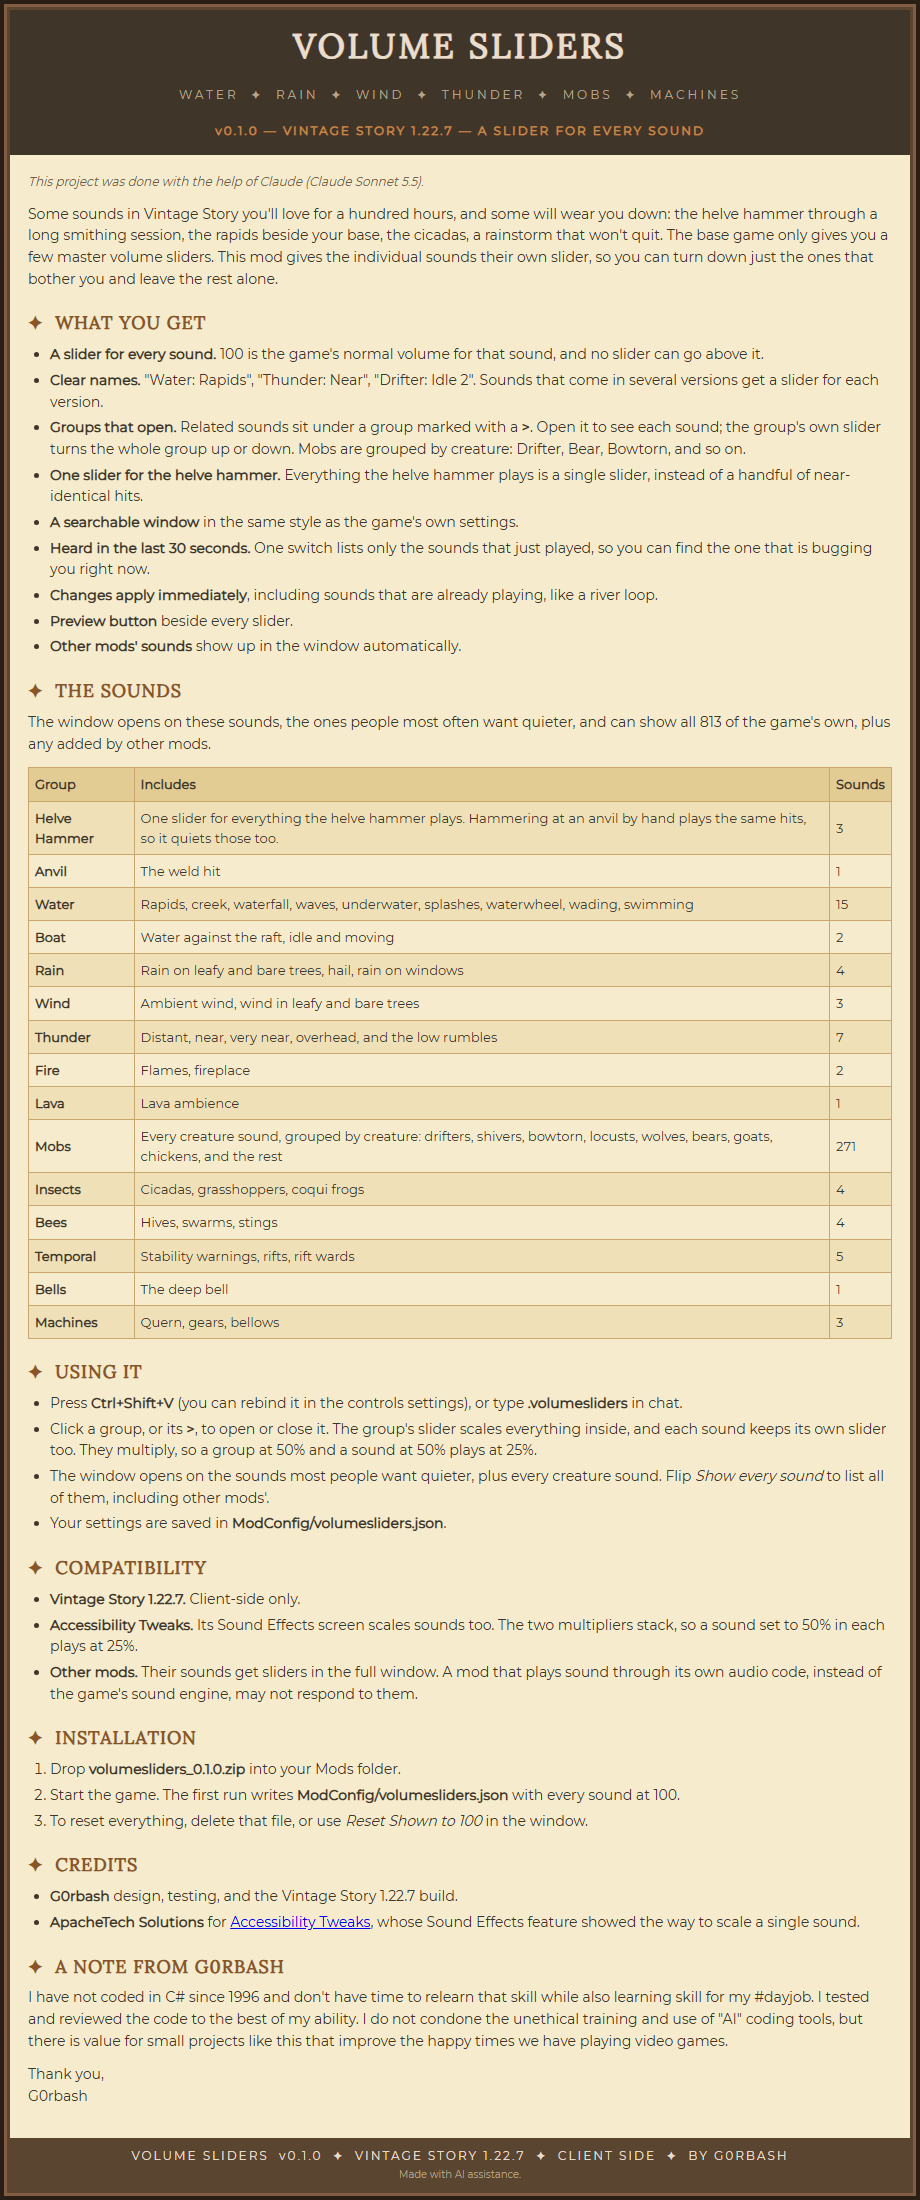
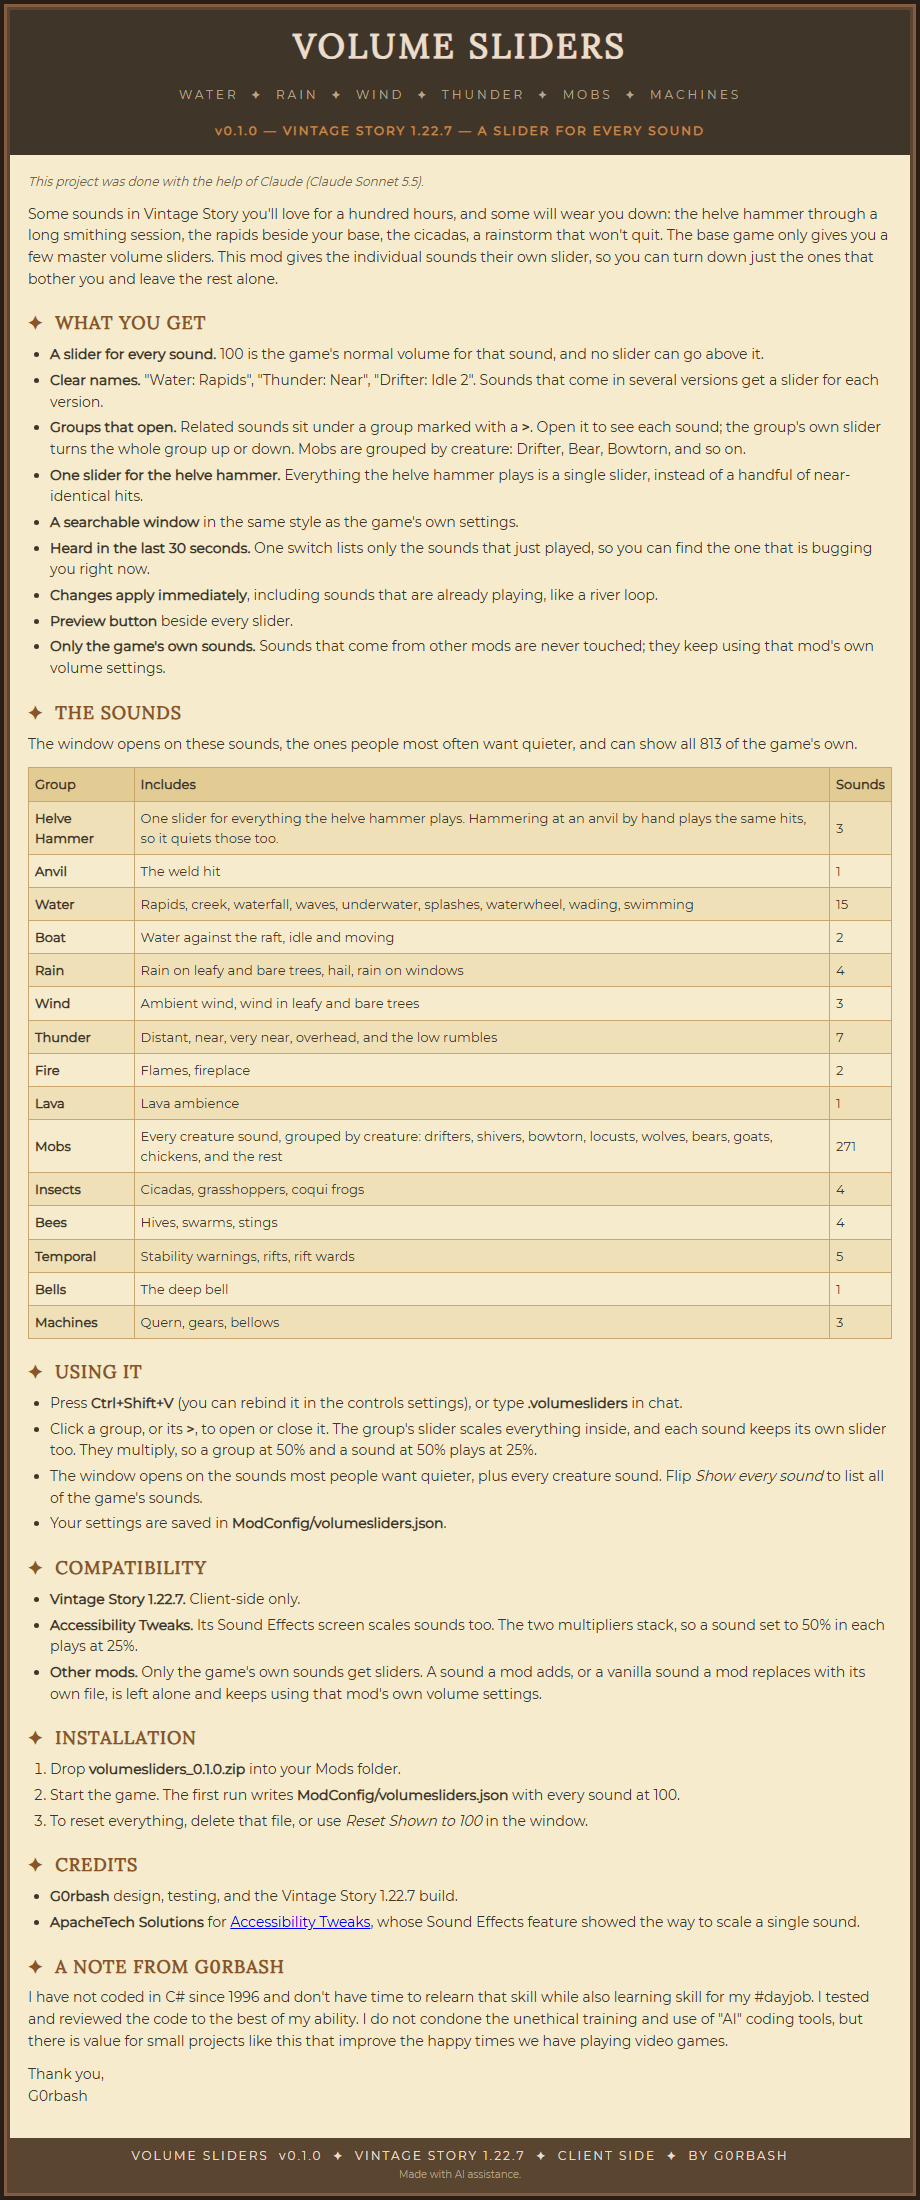
Vanilla sounds only: skip mod-provided and mod-replaced sounds in the window and the volume patch

diff --git a/docs/moddb-description.html b/docs/moddb-description.html
@@ -3,9 +3,9 @@
 <p style="margin: 0 0 12px 0; font-size: 12px; color: #6e5a44;"><i>This project was done with the help of Claude (Claude Sonnet 5.5).</i></p>
 <p style="margin: 0 0 12px 0;">Some sounds in Vintage Story you'll love for a hundred hours, and some will wear you down: the helve hammer through a long smithing session, the rapids beside your base, the cicadas, a rainstorm that won't quit. The base game only gives you a few master volume sliders. This mod gives the individual sounds their own slider, so you can turn down just the ones that bother you and leave the rest alone.</p>
 <p style="margin: 20px 0 6px 0; color: #8a5426; font-family: Lora, Georgia, 'Times New Roman', serif; font-size: 18px; font-weight: bold; letter-spacing: 1px;">&#10022;&nbsp; WHAT YOU GET</p>
-<ul style="margin: 0 0 14px 22px; padding: 0;"><li style="margin: 0 0 4px 0;"><b>A slider for every sound.</b> 100 is the game's normal volume for that sound, and no slider can go above it.</li><li style="margin: 0 0 4px 0;"><b>Clear names.</b> "Water: Rapids", "Thunder: Near", "Drifter: Idle 2". Sounds that come in several versions get a slider for each version.</li><li style="margin: 0 0 4px 0;"><b>Groups that open.</b> Related sounds sit under a group marked with a <b>&gt;</b>. Open it to see each sound; the group's own slider turns the whole group up or down. Mobs are grouped by creature: Drifter, Bear, Bowtorn, and so on.</li><li style="margin: 0 0 4px 0;"><b>One slider for the helve hammer.</b> Everything the helve hammer plays is a single slider, instead of a handful of near-identical hits.</li><li style="margin: 0 0 4px 0;"><b>A searchable window</b> in the same style as the game's own settings.</li><li style="margin: 0 0 4px 0;"><b>Heard in the last 30 seconds.</b> One switch lists only the sounds that just played, so you can find the one that is bugging you right now.</li><li style="margin: 0 0 4px 0;"><b>Changes apply immediately</b>, including sounds that are already playing, like a river loop.</li><li style="margin: 0 0 4px 0;"><b>Preview button</b> beside every slider.</li><li style="margin: 0 0 4px 0;"><b>Other mods' sounds</b> show up in the window automatically.</li></ul>
+<ul style="margin: 0 0 14px 22px; padding: 0;"><li style="margin: 0 0 4px 0;"><b>A slider for every sound.</b> 100 is the game's normal volume for that sound, and no slider can go above it.</li><li style="margin: 0 0 4px 0;"><b>Clear names.</b> "Water: Rapids", "Thunder: Near", "Drifter: Idle 2". Sounds that come in several versions get a slider for each version.</li><li style="margin: 0 0 4px 0;"><b>Groups that open.</b> Related sounds sit under a group marked with a <b>&gt;</b>. Open it to see each sound; the group's own slider turns the whole group up or down. Mobs are grouped by creature: Drifter, Bear, Bowtorn, and so on.</li><li style="margin: 0 0 4px 0;"><b>One slider for the helve hammer.</b> Everything the helve hammer plays is a single slider, instead of a handful of near-identical hits.</li><li style="margin: 0 0 4px 0;"><b>A searchable window</b> in the same style as the game's own settings.</li><li style="margin: 0 0 4px 0;"><b>Heard in the last 30 seconds.</b> One switch lists only the sounds that just played, so you can find the one that is bugging you right now.</li><li style="margin: 0 0 4px 0;"><b>Changes apply immediately</b>, including sounds that are already playing, like a river loop.</li><li style="margin: 0 0 4px 0;"><b>Preview button</b> beside every slider.</li><li style="margin: 0 0 4px 0;"><b>Only the game's own sounds.</b> Sounds that come from other mods are never touched; they keep using that mod's own volume settings.</li></ul>
 <p style="margin: 20px 0 6px 0; color: #8a5426; font-family: Lora, Georgia, 'Times New Roman', serif; font-size: 18px; font-weight: bold; letter-spacing: 1px;">&#10022;&nbsp; THE SOUNDS</p>
-<p style="margin: 0 0 12px 0;">The window opens on these sounds, the ones people most often want quieter, and can show all 813 of the game's own, plus any added by other mods.</p>
+<p style="margin: 0 0 12px 0;">The window opens on these sounds, the ones people most often want quieter, and can show all 813 of the game's own.</p>
 <table style="border-collapse: collapse; margin: 0 0 14px 0; width: 100%; font-family: Montserrat, Verdana, sans-serif; font-size: 13px; color: #403529;" cellpadding="6"><tbody>
 <tr style="background: #e3cc94;"><td style="border: 1px solid #c9a66b;"><b>Group</b></td><td style="border: 1px solid #c9a66b;"><b>Includes</b></td><td style="border: 1px solid #c9a66b;"><b>Sounds</b></td></tr>
 <tr style="background: #efe0b8;"><td style="border: 1px solid #c9a66b;"><b>Helve Hammer</b></td><td style="border: 1px solid #c9a66b;">One slider for everything the helve hammer plays. Hammering at an anvil by hand plays the same hits, so it quiets those too.</td><td style="border: 1px solid #c9a66b;">3</td></tr>
@@ -24,9 +24,9 @@
 <tr style="background: #f6ebcd;"><td style="border: 1px solid #c9a66b;"><b>Bells</b></td><td style="border: 1px solid #c9a66b;">The deep bell</td><td style="border: 1px solid #c9a66b;">1</td></tr>
 <tr style="background: #efe0b8;"><td style="border: 1px solid #c9a66b;"><b>Machines</b></td><td style="border: 1px solid #c9a66b;">Quern, gears, bellows</td><td style="border: 1px solid #c9a66b;">3</td></tr></tbody></table>
 <p style="margin: 20px 0 6px 0; color: #8a5426; font-family: Lora, Georgia, 'Times New Roman', serif; font-size: 18px; font-weight: bold; letter-spacing: 1px;">&#10022;&nbsp; USING IT</p>
-<ul style="margin: 0 0 14px 22px; padding: 0;"><li style="margin: 0 0 4px 0;">Press <b>Ctrl+Shift+V</b> (you can rebind it in the controls settings), or type <b>.volumesliders</b> in chat.</li><li style="margin: 0 0 4px 0;">Click a group, or its <b>&gt;</b>, to open or close it. The group's slider scales everything inside, and each sound keeps its own slider too. They multiply, so a group at 50% and a sound at 50% plays at 25%.</li><li style="margin: 0 0 4px 0;">The window opens on the sounds most people want quieter, plus every creature sound. Flip <i>Show every sound</i> to list all of them, including other mods'.</li><li style="margin: 0 0 4px 0;">Your settings are saved in <b>ModConfig/volumesliders.json</b>.</li></ul>
+<ul style="margin: 0 0 14px 22px; padding: 0;"><li style="margin: 0 0 4px 0;">Press <b>Ctrl+Shift+V</b> (you can rebind it in the controls settings), or type <b>.volumesliders</b> in chat.</li><li style="margin: 0 0 4px 0;">Click a group, or its <b>&gt;</b>, to open or close it. The group's slider scales everything inside, and each sound keeps its own slider too. They multiply, so a group at 50% and a sound at 50% plays at 25%.</li><li style="margin: 0 0 4px 0;">The window opens on the sounds most people want quieter, plus every creature sound. Flip <i>Show every sound</i> to list all of the game's sounds.</li><li style="margin: 0 0 4px 0;">Your settings are saved in <b>ModConfig/volumesliders.json</b>.</li></ul>
 <p style="margin: 20px 0 6px 0; color: #8a5426; font-family: Lora, Georgia, 'Times New Roman', serif; font-size: 18px; font-weight: bold; letter-spacing: 1px;">&#10022;&nbsp; COMPATIBILITY</p>
-<ul style="margin: 0 0 14px 22px; padding: 0;"><li style="margin: 0 0 4px 0;"><b>Vintage Story 1.22.7.</b> Client-side only.</li><li style="margin: 0 0 4px 0;"><b>Accessibility Tweaks.</b> Its Sound Effects screen scales sounds too. The two multipliers stack, so a sound set to 50% in each plays at 25%.</li><li style="margin: 0 0 4px 0;"><b>Other mods.</b> Their sounds get sliders in the full window. A mod that plays sound through its own audio code, instead of the game's sound engine, may not respond to them.</li></ul>
+<ul style="margin: 0 0 14px 22px; padding: 0;"><li style="margin: 0 0 4px 0;"><b>Vintage Story 1.22.7.</b> Client-side only.</li><li style="margin: 0 0 4px 0;"><b>Accessibility Tweaks.</b> Its Sound Effects screen scales sounds too. The two multipliers stack, so a sound set to 50% in each plays at 25%.</li><li style="margin: 0 0 4px 0;"><b>Other mods.</b> Only the game's own sounds get sliders. A sound a mod adds, or a vanilla sound a mod replaces with its own file, is left alone and keeps using that mod's own volume settings.</li></ul>
 <p style="margin: 20px 0 6px 0; color: #8a5426; font-family: Lora, Georgia, 'Times New Roman', serif; font-size: 18px; font-weight: bold; letter-spacing: 1px;">&#10022;&nbsp; INSTALLATION</p>
 <ol style="margin: 0 0 14px 22px; padding: 0;"><li style="margin: 0 0 4px 0;">Drop <b>volumesliders_0.1.0.zip</b> into your Mods folder.</li><li style="margin: 0 0 4px 0;">Start the game. The first run writes <b>ModConfig/volumesliders.json</b> with every sound at 100.</li><li style="margin: 0 0 4px 0;">To reset everything, delete that file, or use <i>Reset Shown to 100</i> in the window.</li></ol>
 <p style="margin: 20px 0 6px 0; color: #8a5426; font-family: Lora, Georgia, 'Times New Roman', serif; font-size: 18px; font-weight: bold; letter-spacing: 1px;">&#10022;&nbsp; CREDITS</p>

diff --git a/tools/make_description.py b/tools/make_description.py
@@ -47,7 +47,8 @@ FEATURES = [
     'that is bugging you right now.',
     '<b>Changes apply immediately</b>, including sounds that are already playing, like a river loop.',
     '<b>Preview button</b> beside every slider.',
-    '<b>Other mods\' sounds</b> show up in the window automatically.',
+    '<b>Only the game\'s own sounds.</b> Sounds that come from other mods are never touched; they keep using that '
+    'mod\'s own volume settings.',
 ]
 
 # group label -> examples. The label is the text before ":" in each sound's name (see tools/generate.py).
@@ -75,15 +76,15 @@ USING = [
     'Click a group, or its <b>&gt;</b>, to open or close it. The group\'s slider scales everything inside, and each '
     'sound keeps its own slider too. They multiply, so a group at 50% and a sound at 50% plays at 25%.',
     'The window opens on the sounds most people want quieter, plus every creature sound. Flip <i>Show every sound</i> '
-    "to list all of them, including other mods'.",
+    "to list all of the game's sounds.",
     'Your settings are saved in <b>ModConfig/volumesliders.json</b>.',
 ]
 COMPAT = [
     ('Vintage Story 1.22.7.', 'Client-side only.'),
     ('Accessibility Tweaks.', 'Its Sound Effects screen scales sounds too. The two multipliers stack, so a sound set to '
                               '50% in each plays at 25%.'),
-    ('Other mods.', 'Their sounds get sliders in the full window. A mod that plays sound through its own audio code, '
-                    'instead of the game\'s sound engine, may not respond to them.'),
+    ('Other mods.', 'Only the game\'s own sounds get sliders. A sound a mod adds, or a vanilla sound a mod replaces with '
+                    'its own file, is left alone and keeps using that mod\'s own volume settings.'),
 ]
 INSTALL = [
     'Drop <b>volumesliders_{v}.zip</b> into your Mods folder.'.format(v=VERSION),
@@ -127,7 +128,7 @@ for label, examples in GROUPS:
 sound_rows.insert(0, ('<b>Helve Hammer</b>', HELVE, str(combined_total)))
 sound_rows.insert(9, ('<b>Mobs</b>', MOBS, str(creature_total)))
 SOUNDS_INTRO = (f'The window opens on these sounds, the ones people most often want quieter, and can show all {total} of '
-                "the game's own, plus any added by other mods.")
+                "the game's own.")
 
 # ---------------------------------------------------------------- styles
 SERIF = "font-family: Lora, Georgia, 'Times New Roman', serif;"

diff --git a/src/VolumeSlidersSystem.cs b/src/VolumeSlidersSystem.cs
@@ -59,20 +59,26 @@ namespace VolumeSliders
             var combos = capi.Assets.TryGet(new AssetLocation("volumesliders", "config/combined.json"))?.ToObject<CombinedDef[]>()
                 ?? new CombinedDef[0];
 
-            // Mods' assets are all loaded by now, so this includes sounds from other mods.
-            Sounds = capi.Assets.AllAssets
+            // Only the game's own sounds. An asset counts as the game's if its file lives in the game's assets folder;
+            // a mod's sound, or a vanilla sound a mod replaced, is left to that mod.
+            var all = capi.Assets.AllAssets
                 .Where(p => (p.Key.Category == AssetCategory.sounds || p.Key.Category == AssetCategory.music) && p.Key.Path.EndsWith(".ogg"))
-                .Select(p => p.Key)
+                .ToList();
+            var vanilla = all.Where(p => SoundKeys.IsInside(p.Value.Origin?.OriginPath ?? "", GamePaths.AssetsPath)).Select(p => p.Key).ToList();
+
+            Sounds = vanilla
                 .GroupBy(SoundKeys.KeyFor)
                 .Select(g => g.First())
                 .Select(Describe)
                 .OrderBy(e => e.Display, StringComparer.OrdinalIgnoreCase)
                 .ToList();
+            VolumeConfig.SetVanilla(new HashSet<string>(Sounds.Select(e => e.Key)));
 
             Tree = SoundTree.Build(Sounds, combos, out var rules);
             VolumeConfig.SetRules(rules);
             dialog?.Refresh();
-            capi.Logger.Notification("[volumesliders] Loaded {0} sounds ({1} major) in {2} groups.", Sounds.Count, Sounds.Count(s => s.Major), Tree.Count);
+            capi.Logger.Notification("[volumesliders] {0} vanilla sounds ({1} major) in {2} groups; {3} sounds from mods left alone.",
+                Sounds.Count, Sounds.Count(s => s.Major), Tree.Count, all.Count - vanilla.Count);
         }
 
         SoundEntry Describe(AssetLocation loc)

diff --git a/src/SoundTree.cs b/src/SoundTree.cs
@@ -62,7 +62,6 @@ namespace VolumeSliders
     public static class SoundTree
     {
         static readonly HashSet<string> GenericFolders = new HashSet<string> { "animal", "mammal", "hooved", "large", "medium", "small", "bird", "birds", "generic", "strange" };
-        static readonly string[] VanillaDomains = { "game", "survival", "creative" };
 
         public static List<SoundNode> Build(IEnumerable<SoundEntry> sounds, IEnumerable<CombinedDef> combos, out Dictionary<string, SoundRule> rules)
         {
@@ -177,13 +176,6 @@ namespace VolumeSliders
                 int colon = s.Display.IndexOf(": ", StringComparison.Ordinal);
                 group = colon < 0 ? "Other" : s.Display.Substring(0, colon);
                 leafName = colon < 0 ? s.Display : s.Display.Substring(colon + 2);
-                return;
-            }
-
-            if (loc.Domain != null && Array.IndexOf(VanillaDomains, loc.Domain) < 0)
-            {
-                group = SoundKeys.TitleCase(loc.Domain) + " (mod)";
-                leafName = SoundKeys.CategoryFor(loc) + ": " + SoundKeys.NameFor(loc);
                 return;
             }
 

diff --git a/src/SoundKeys.cs b/src/SoundKeys.cs
@@ -11,6 +11,16 @@ namespace VolumeSliders
     {
         static readonly string[] VanillaDomains = { "game", "survival", "creative" };
 
+        /// <summary>True if an asset's origin (a folder or zip) lies inside the game's own assets folder, i.e. it is vanilla content.</summary>
+        public static bool IsInside(string originPath, string assetsPath)
+        {
+            if (string.IsNullOrEmpty(originPath) || string.IsNullOrEmpty(assetsPath)) return false;
+            char[] seps = { System.IO.Path.DirectorySeparatorChar, System.IO.Path.AltDirectorySeparatorChar };
+            string root = System.IO.Path.GetFullPath(assetsPath).TrimEnd(seps) + System.IO.Path.DirectorySeparatorChar;
+            string origin = System.IO.Path.GetFullPath(originPath).TrimEnd(seps) + System.IO.Path.DirectorySeparatorChar;
+            return origin.StartsWith(root, System.StringComparison.OrdinalIgnoreCase);
+        }
+
         /// <summary>"game:sounds/walk/wood1.ogg" -> "walk_wood1"; "music/x" -> "music_x"; other domains are prefixed.</summary>
         public static string KeyFor(AssetLocation loc)
         {

diff --git a/src/VolumeConfig.cs b/src/VolumeConfig.cs
@@ -33,6 +33,13 @@ namespace VolumeSliders
 
         public static int Get(string key) => volumes.TryGetValue(key, out int v) ? v : Max;
 
+        // Keys of the game's own sounds. Anything else (a mod's sound, or a vanilla sound a mod replaced) is never touched.
+        static HashSet<string> vanilla = new HashSet<string>();
+
+        public static void SetVanilla(HashSet<string> keys) => vanilla = keys;
+
+        public static bool IsVanilla(string key) => vanilla.Contains(key);
+
         // Sound key -> the group/combo sliders it answers to. Replaced wholesale once the sound list is known.
         static Dictionary<string, SoundRule> rules = new Dictionary<string, SoundRule>();
 

diff --git a/src/SoundPatch.cs b/src/SoundPatch.cs
@@ -30,6 +30,8 @@ namespace VolumeSliders
                 keys.AddOrUpdate(loc, key);
             }
 
+            if (!VolumeConfig.IsVanilla(key)) return;   // a mod's own sound: leave it to that mod's volume settings
+
             VolumeConfig.LastHeard[key] = Environment.TickCount64;
             __result *= VolumeConfig.Factor(key);
         }

diff --git a/README.md b/README.md
@@ -16,11 +16,11 @@ Some sounds in Vintage Story you'll love for a hundred hours, and some will wear
 - **Heard in the last 30 seconds.** One switch lists only the sounds that just played, so you can find the one that is bugging you right now.
 - **Changes apply immediately**, including sounds that are already playing, like a river loop.
 - **Preview button** beside every slider.
-- **Other mods' sounds** show up in the window automatically.
+- **Only the game's own sounds.** Sounds that come from other mods are never touched; they keep using that mod's own volume settings.
 
 ### The Sounds
 
-The window opens on these sounds, the ones people most often want quieter, and can show all 813 of the game's own, plus any added by other mods.
+The window opens on these sounds, the ones people most often want quieter, and can show all 813 of the game's own.
 
 | Group | Includes | Sounds |
 |---|---|---|
@@ -44,14 +44,14 @@ The window opens on these sounds, the ones people most often want quieter, and c
 
 - Press **Ctrl+Shift+V** (you can rebind it in the controls settings), or type **.volumesliders** in chat.
 - Click a group, or its **&gt;**, to open or close it. The group's slider scales everything inside, and each sound keeps its own slider too. They multiply, so a group at 50% and a sound at 50% plays at 25%.
-- The window opens on the sounds most people want quieter, plus every creature sound. Flip *Show every sound* to list all of them, including other mods'.
+- The window opens on the sounds most people want quieter, plus every creature sound. Flip *Show every sound* to list all of the game's sounds.
 - Your settings are saved in **ModConfig/volumesliders.json**.
 
 ### Compatibility
 
 - **Vintage Story 1.22.7.** Client-side only.
 - **Accessibility Tweaks.** Its Sound Effects screen scales sounds too. The two multipliers stack, so a sound set to 50% in each plays at 25%.
-- **Other mods.** Their sounds get sliders in the full window. A mod that plays sound through its own audio code, instead of the game's sound engine, may not respond to them.
+- **Other mods.** Only the game's own sounds get sliders. A sound a mod adds, or a vanilla sound a mod replaces with its own file, is left alone and keeps using that mod's own volume settings.
 
 ### Installation
 
